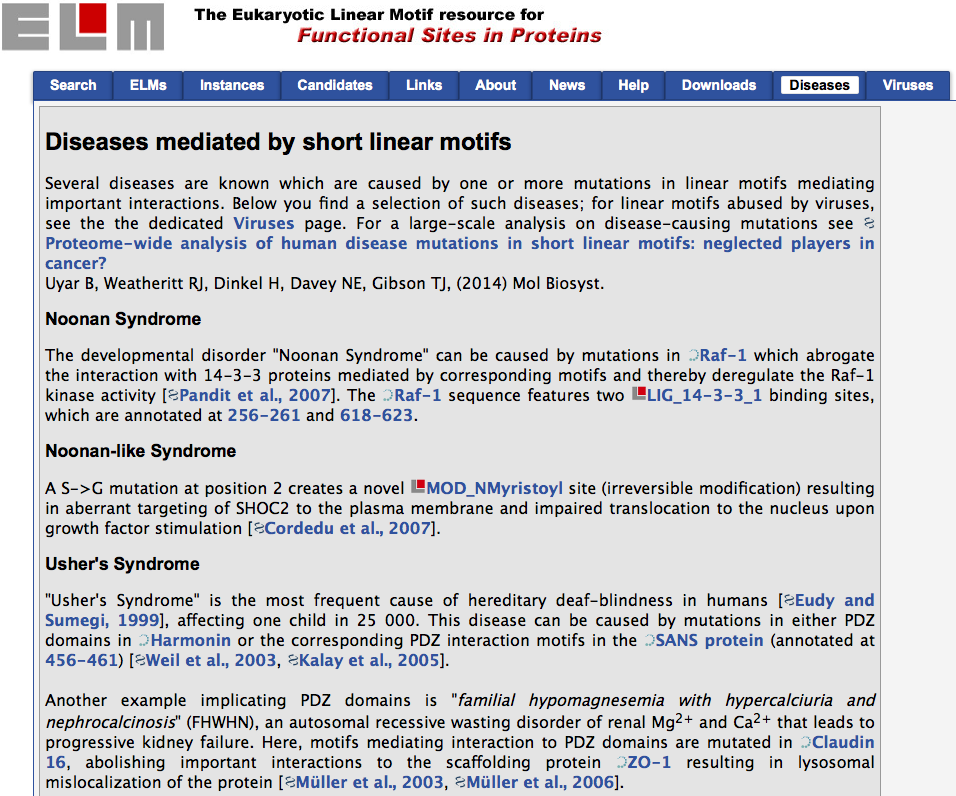
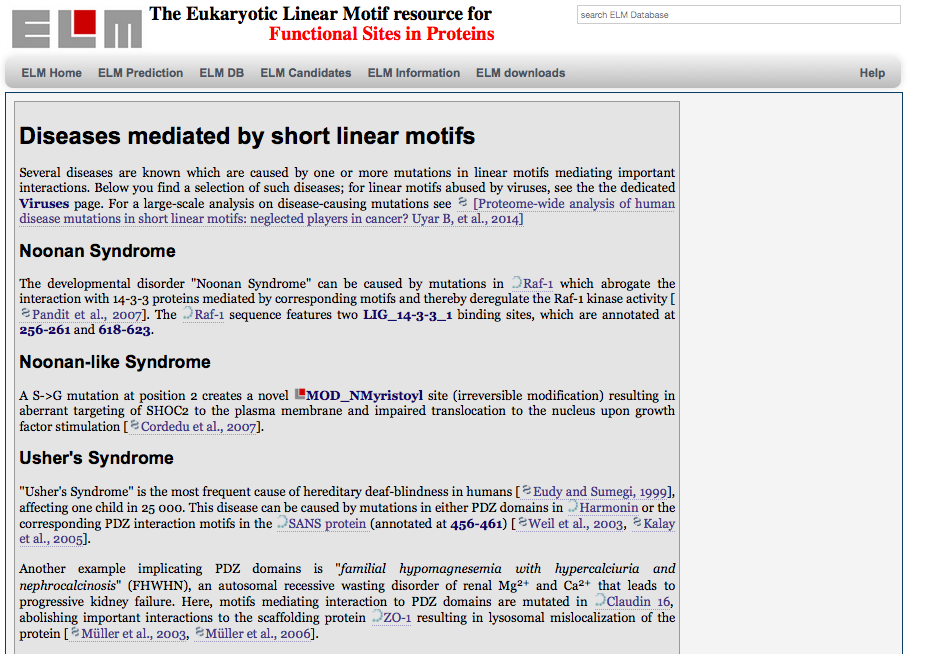
update screenshots; change theme

diff --git a/trainingMaterial/holgerDinkel/linear_motifs/Elm_Phospho_Switches.tex b/trainingMaterial/holgerDinkel/linear_motifs/Elm_Phospho_Switches.tex
@@ -1,9 +1,9 @@
 \documentclass[a4paper,10pt,xcolor=pdftex,dvipsnames,table]{beamer}
 \mode<presentation> {
 		\usetheme{Madrid}
-		\usecolortheme[]{seagull}
+		\usecolortheme[]{beaver}
+%		\usecolortheme[]{seahorse}
 %		\usecolortheme[]{dolphin}
-%  \usecolortheme{crane}
 		\usefonttheme{professionalfonts}
 %		\usefonttheme[onlysmall]{structurebold}				% use smallcaps in bold structures (not everywhere)
 %		\usefonttheme[frametitle]{structuresmallcapsserif}
@@ -13,7 +13,7 @@
         \useoutertheme{progressbar}
         \setbeamertemplate{blocks}[rounded][shadow=false]
         \useinnertheme{rounded}    % circles, inmargin, rectangles, rounded
-%                \newcommand{\includeoptional}{false}
+%        \newcommand{\includeoptional}{false}
         \newcommand{\includeoptional}{true}
 		\setbeamertemplate{headline}{}
         \setbeamertemplate{navigation symbols}{}
@@ -305,9 +305,9 @@
     \note{Current status of ELM. This is how ELM looks like for the user?}%
     \note{my Job: Improving the user interface and implementing new methods}%
         \visible<1->{\vspace{-2mm}
-            \optional{\includegraphics[width=.8\textwidth]{images/elm/elm_title.jpg}}\\\vspace{-8mm}%
-        \hogsboxtop{The \includegraphics[width=1cm]{elm_logo_transparent.png}~resource}{is a collection of nearly 200 thoroughly annotated motif
-        classes with over 2400 annotated instances. \\
+            \optional{\includegraphics[width=.8\textwidth]{images/elm/elm_title_trans.png}}\\\vspace{-8mm}%
+        \hogsboxtop{The \includegraphics[width=1cm]{elm_logo_transparent.png}~resource}{is a collection of nearly 240 thoroughly annotated motif
+        classes with over 2700 annotated instances. \\
         It is also a prediction tool to detect these motifs in protein sequences employing different filters to distinguish between \structure{functional}
         and \structure{non-functional} motif instances.}%
     }\medskip
@@ -378,11 +378,21 @@
         \optional{\includegraphics[width=.9\textwidth]{images/elm/ELM_diseases_page.png}}%
     \end{center}%
 \end{frame}
-\subsection{ELM database:Viruses}
+
+% \subsection{ELM database:Viruses}
+% \begin{frame}[t]\frametitle{\insertsubsection{}}%
+%     \elmlogo
+%     \begin{center}\vskip-1.1em%
+%         \optional{\includegraphics[width=.9\textwidth]{images/elm/ELM_virus_page.png}}%
+%     \end{center}%
+% \end{frame}
+
+
+\subsection{ELM database:Pathways}
 \begin{frame}[t]\frametitle{\insertsubsection{}}%
     \elmlogo
     \begin{center}\vskip-1.1em%
-        \optional{\includegraphics[width=.9\textwidth]{images/elm/ELM_virus_page.png}}%
+        \optional{\includegraphics[width=.9\textwidth]{images/elm/kegg_wnt_pathway.png}}%
     \end{center}%
 \end{frame}
 
